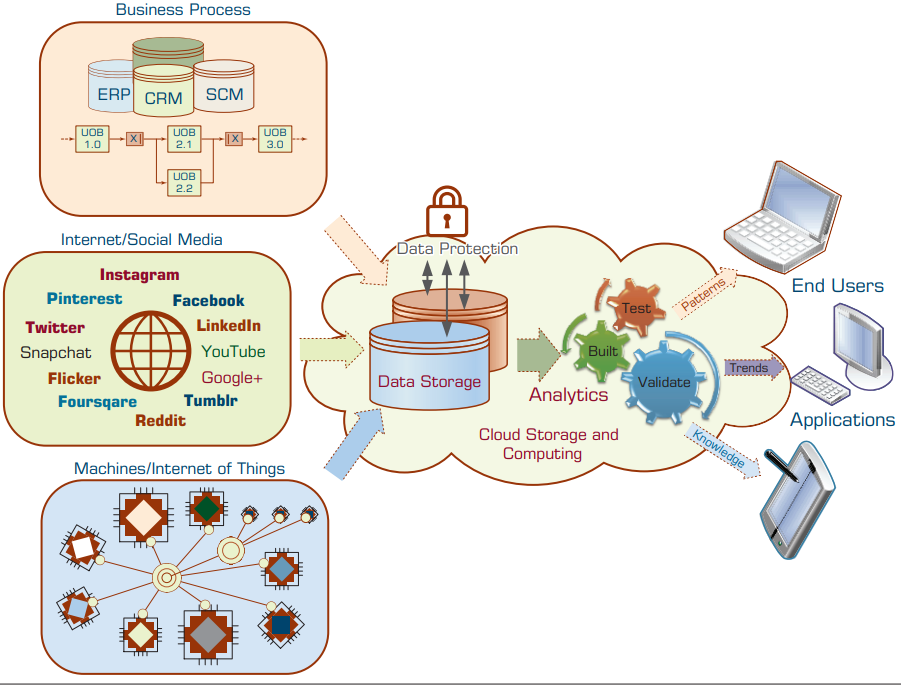
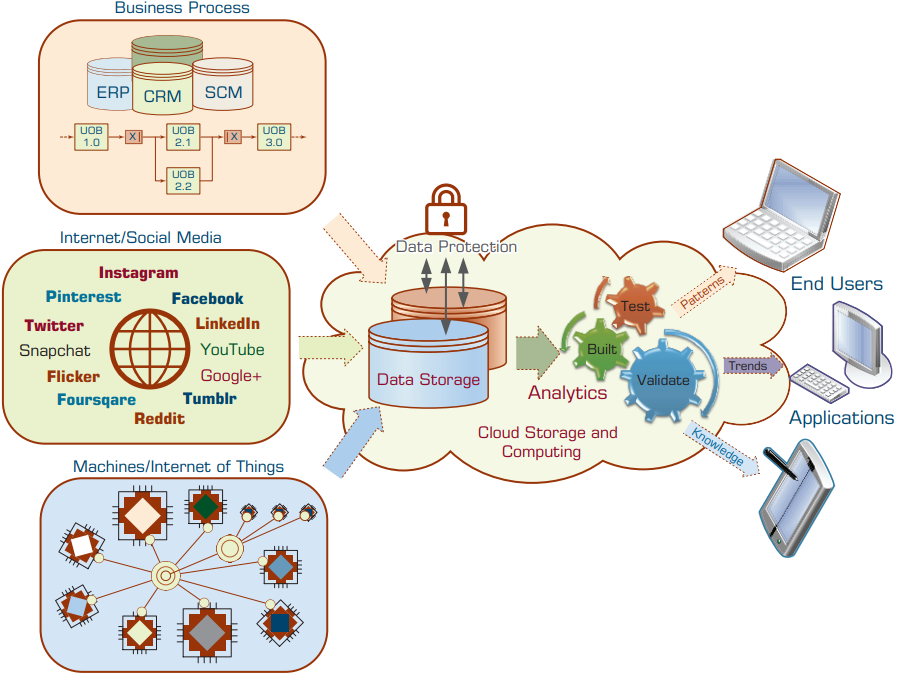
feat(lecture4): add data taxonomy and preprocessing sections
Adds detailed explanations and diagrams for data taxonomy and the stages of data preprocessing. Also enhances the data to knowledge continuum section with additional context.

diff --git a/msc/lectures/lecture4_el.md b/msc/lectures/lecture4_el.md
@@ -284,9 +284,116 @@ style: |
 
 ---
 
-# A Data to knowledge Continuum
+<!-- _class: small -->
+# 1.4 A Data to Knowledge Continuum
+*(Το συνεχές από τα Δεδομένα στη Γνώση)*
 
-![w:700](../img/lec4/data-cont.png)
+<div class="columns">
+<div>
+
+![w:500](../img/lec4/data-cont.png)
+
+</div>
+
+<div>
+
+
+Η εικόνα αυτή απεικονίζει οπτικά όσα συζητήσαμε για τη **Φύση των Δεδομένων**: το πώς η "ακατέργαστη πρώτη ύλη" (από ετερογενείς πηγές όπως IoT, Social Media, ERP) μετασχηματίζεται σταδιακά σε στρατηγική γνώση.
+
+
+> 💡 **Σύνδεση:** Για να διασχίσουν τα δεδομένα με επιτυχία αυτό το "συνεχές" (pipeline) και να παράξουν αξιόπιστα μοτίβα (Patterns) και Γνώση (Knowledge), πρέπει απαραιτήτως να πληρούν τις **μετρικές ποιότητας (Analytics Readiness)** της προηγούμενης διαφάνειας!
+
+</div>
+
+</div>
+
+---
+
+<!-- _class: xsmall -->
+# 1.5 Ταξινομία των Δεδομένων (Data Taxonomy)
+
+Τα δεδομένα είναι το κατώτερο επίπεδο αφαίρεσης. Στο ανώτερο επίπεδο χωρίζονται σε **Δομημένα** (Structured) και **Μη Δομημένα** (Unstructured). Η Αναλυτική και το Data Mining εστιάζουν κυρίως στα δομημένα δεδομένα, τα οποία ταξινομούνται ως εξής:
+
+<div class="columns">
+<div>
+
+**1. Κατηγορικά (Categorical) / Διακριτά**
+Διαχωρίζουν τις μεταβλητές σε διακριτές ομάδες.
+
+* **Ονομαστικά (Nominal):** Απλές ετικέτες ή κωδικοί *χωρίς ιεραρχία/τάξη*.
+  * *Παράδειγμα:* Φύλο (Άρρεν/Θήλυ), Οικογενειακή κατάσταση. Μπορούν να είναι διωνυμικά (Binomial - Ναι/Όχι) ή πολυωνυμικά.
+* **Τακτικά (Ordinal):** Ετικέτες που εμπεριέχουν *φυσική σειρά ή κατάταξη*.
+  * *Παράδειγμα:* Πιστωτική βαθμολογία (Χαμηλή/Μεσαία/Υψηλή), Επίπεδο εκπαίδευσης. Μπορούν να βελτιώσουν την απόδοση μοντέλων (π.χ. ordinal logistic regression).
+
+</div>
+<div>
+
+**2. Αριθμητικά (Numeric) / Συνεχή**
+Μετρήσεις σε κλίμακα, με πραγματικούς ή ακέραιους αριθμούς (αναπαριστούν συνεχείς μετρήσεις).
+
+* **Διαστήματος (Interval):** Κλίμακες *χωρίς* απόλυτο (φυσικό) μηδέν. 
+  * *Παράδειγμα:* Θερμοκρασία σε Κελσίου (το 0 δεν σημαίνει απόλυτη απουσία ενέργειας).
+* **Αναλογίας (Ratio):** Κλίμακες που διαθέτουν *απόλυτο μηδέν*.
+  * *Παράδειγμα:* Μάζα, Απόσταση, Χρόνος, Θερμοκρασία σε Kelvin. Επιτρέπει τον υπολογισμό αναλογιών.
+
+</div>
+</div>
+
+> ⚙ **Data Transformation:** Η επιλογή αλγορίθμου υπαγορεύει τη μορφή. Π.χ. τα **Νευρωνικά Δίκτυα** απαιτούν *αριθμητικά* δεδομένα (άρα τα Nominal μετατρέπονται μέσω *Pseudo-variables / One-Hot Encoding*), ενώ παλαιότεροι αλγόριθμοι όπως ο **ID3** (Decision Trees) απαιτούν *κατηγορικά* δεδομένα, καθιστώντας απαραίτητο τον μετασχηματισμό/διακριτοποίηση.
+
+---
+
+# A simple taxonomy of data
+
+![](../img/lec4/data-tax.png)
+
+---
+
+<!-- _class: xsmall -->
+# 1.6 Η Τέχνη και Επιστήμη της Προετοιμασίας Δεδομένων
+
+Τα πραγματικά δεδομένα (raw data) είναι συχνά "βρώμικα", ασύμβατα και ανακριβή. Η προετοιμασία τους (**Data Preprocessing**) είναι η πιο χρονοβόρα αλλά και πιο κρίσιμη φάση πριν την εφαρμογή αλγορίθμων ανάλυσης. Περιλαμβάνει 4 κύρια στάδια:
+
+<div class="columns">
+<div>
+
+**1. Ενοποίηση (Data Consolidation / Blending)**
+*   Επιλογή σχετικών εγγραφών και φιλτράρισμα μη απαραίτητης πληροφορίας.
+*   **Data Blending:** Συγχώνευση (merge) δεδομένων από πολλαπλές και ετερογενείς πηγές (π.χ. RDBMS, NoSQL, Cloud, Web Services, Social Media).
+
+**2. Καθαρισμός (Data Cleaning / Scrubbing)**
+*   **Ελλείπουσες τιμές (Missing values):** Εκτίμηση / συμπλήρωση με την πιο πιθανή τιμή (imputation) ή απόρριψη της εγγραφής.
+*   **Ακραίες τιμές (Outliers) & Θόρυβος:** Εντοπισμός και εξομάλυνση (smoothing).
+*   Αντιμετώπιση **ασυνεπειών** με χρήση της γνώσης του εκάστοτε πεδίου (domain knowledge).
+
+</div>
+<div>
+
+**3. Μετασχηματισμός (Data Transformation)**
+*   **Κανονικοποίηση (Normalization):** Κλιμάκωση (π.χ. min-max) ώστε καμία μεταβλητή να μην "επισκιάζει" άλλες (π.χ. το εισόδημα έναντι των ετών προϋπηρεσίας).
+*   **Διακριτοποίηση / Άθροιση:** Μετατροπή αριθμητικών τιμών σε κατηγορικές (π.χ. χαμηλό, μεσαίο, υψηλό) ή ιεραρχική συμπύκνωση (π.χ. περιοχές αντί για πόλεις).
+*   Δημιουργία **νέων παράγωγων μεταβλητών** (π.χ. `blood_match` αντί για χωριστούς τύπους αίματος).
+
+**4. Μείωση Δεδομένων (Data Reduction)**
+*   **Μείωση Διαστάσεων (Variables):** Επιλογή μόνο των σημαντικότερων μεταβλητών (PCA) για αποφυγή υπερβολικής πολυπλοκότητας.
+*   **Δειγματοληψία εγγραφών (Cases):** Τυχαία ή διαστρωματωμένη (stratified) δειγματοληψία όταν τα δεδομένα είναι αχανή.
+*   **Εξισορρόπηση (Balancing):** Υπερδειγματοληψία (oversampling) ή υποδειγματοληψία (undersampling) σε ασύμμετρα (skewed) δεδομένα για καλύτερα μοντέλα.
+
+</div>
+</div>
+
+---
+
+# Data preprocessing
+<div class="columns">
+<div>
+
+![h:500](../img/lec4/data-prepr.png)
+</div>
+
+<div>
+
+</div>
 
 ---
 
